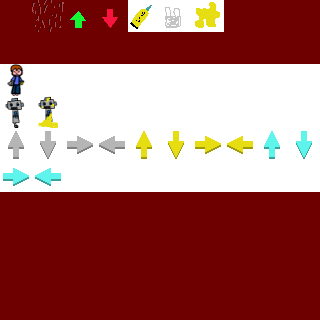
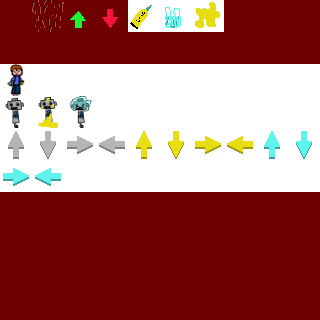
Bag robots!

Changed region(s): [[0.2188, 0.2812, 0.2812, 0.4062], [0.5, 0.0312, 0.5625, 0.0938]]

diff --git a/main.js b/main.js
@@ -17,16 +17,22 @@ gameState.preload = function() {
 };
 
 gameState.create = function() {
-  this.level = Level.parse(Level.LEVEL2);
-  this.boy = Boy.create(this.level.getStartX(), this.level.getStartY());
-  this.level.addEntity(this.boy);
+  this.arrows = game.input.keyboard.createCursorKeys();
+  this.levelIndex = 0;
+  this.startLevel();
   this.glueCount = 0;
   this.bagCount = 0;
-  this.renderer = new Renderer(this.level, this.boy, game);
   this.renderer.renderBoard();
+};
 
-  this.arrows = game.input.keyboard.createCursorKeys();
+gameState.startLevel = function() {
+  this.clean();
+  this.level = Level.parse(Level.LEVELS[this.levelIndex]);
+  this.boy = Boy.create(this.level.getStartX(), this.level.getStartY());
+  this.level.addEntity(this.boy);
+  this.renderer = new Renderer(this.level, this.boy, game);
   this.mode = Mode.MOVE;
+  this.renderer.renderBoard();
 };
 
 gameState.update = function() {
@@ -75,7 +81,12 @@ gameState.stepGame = function(dx, dy) {
   case Mode.MOVE:
     this.boy.moveBy(dx, dy);
     if (this.level.getBoard(this.boy.getX(), this.boy.getY()) == Level.EXIT) {
-      this.gotoWin();
+      if (this.levelIndex == Level.LEVELS.length - 1) {
+        this.gotoWin();
+      } else {
+        this.levelIndex += 1;
+        this.startLevel();
+      }
     }
     contents = this.level.getContent(this.boy.getX(), this.boy.getY());
     for (var i = contents.length - 1; i >= 0; --i) {
@@ -116,7 +127,7 @@ gameState.stepGame = function(dx, dy) {
     contents = this.level.getContent(this.boy.getX() + dx, this.boy.getY() + dy);
     for (var i = 0; i < contents.length; ++i) {
       if (contents[i] instanceof Robot) {
-        // contents[i].bagRobot();
+        contents[i].setBagged(true, dx, dy);
         this.bagCount -= 1;
         this.mode = Mode.MOVE;
         break;
@@ -147,6 +158,9 @@ gameState.stepGame = function(dx, dy) {
     r.moveBy(move.getDx(), move.getDy());
     if ((r.getX() == this.boy.getX()) && (r.getY() == this.boy.getY())) {
       this.gotoLose();
+    } else if (this.level.hasGlue(r.getX(), r.getY())) {
+      r.setGlued();
+      this.level.removeGlue(r.getX(), r.getY());
     }
   }
 };
@@ -155,26 +169,39 @@ gameState.stepRobot = function(r) {
   if (r.isGlued()) {
     return;
   }
+  
   var dx = Math.sign(this.boy.getX() - r.getX());
   var dy = Math.sign(this.boy.getY() - r.getY());
-  // If not on same line or column, nothing
-  if (dx != 0 && dy != 0) {
-    return;
-  }
-  var d = Math.max(Math.abs(this.boy.getX() - r.getX()),
-                   Math.abs(this.boy.getY() - r.getY()));
-  // If wall, no visibility
-  for (var i = 1; i < d; ++i) {
-    if (this.level.getBoard(r.getX() + dx * i, r.getY() + dy * i) == Level.WALL) {
+  if (r.isBagged()) {
+    dx = r.getDx();
+    dy = r.getDy();
+  } else {
+    // If not on same line or column, nothing
+    if (dx != 0 && dy != 0) {
       return;
     }
+    var d = Math.max(Math.abs(this.boy.getX() - r.getX()),
+                     Math.abs(this.boy.getY() - r.getY()));
+    // If wall, no visibility
+    for (var i = 1; i < d; ++i) {
+      if (this.level.getBoard(r.getX() + dx * i, r.getY() + dy * i) == Level.WALL) {
+        return;
+      }
+    }
+  }
+
+  if (r.isBagged() && this.level.getBoard(r.getX() + dx, r.getY() + dy) == Level.WALL) {
+    r.setBagged(false);
+    return;
   }
   // Ok, robot moves
   return new RobotMove(r, dx, dy);
 };
 
 gameState.clean = function() {
-  this.renderer.clean();
+  if (this.renderer) {
+    this.renderer.clean();
+  }
 };
 
 gameState.gotoWin = function() {
@@ -193,19 +220,27 @@ gameState.shutdown = function() {
 var winState = {};
 winState.preload = function() {
   game.load.image("win", "win.png");
+  game.load.image("restart", "restart.png");
 };
 
 winState.create = function() {
   game.add.image(0, 0, "win");
+  game.add.button(450, 430, "restart", function() {
+    game.state.start("game");
+  });
 };
 
 var loseState = {};
 loseState.preload = function() {
   game.load.image("lose", "lose.png");
+  game.load.image("restart", "restart.png");
 };
 
 loseState.create = function() {
   game.add.image(0, 0, "lose");
+  game.add.button(450, 430, "restart", function() {
+    game.state.start("game");
+  });
 };
 
 

diff --git a/render.js b/render.js
@@ -13,6 +13,7 @@ var BOY_SPRITE = 20;
 
 var ROBOT_SPRITE = 30;
 var GLUED_ROBOT_SPRITE = 31;
+var BAGGED_ROBOT_SPRITE = 32;
 
 var MOVE_UP_SPRITE = 40;
 var MOVE_DOWN_SPRITE = 41;
@@ -102,7 +103,8 @@ Renderer.prototype.renderContents = function() {
           this.game.add.sprite(this.boardOffsetX + 32 * i, this.boardOffsetY + 32 * j, "tiles",
                                BOY_SPRITE, this.objects);
         } else if (obj instanceof Robot) {
-          var sprite = obj.isGlued() ? GLUED_ROBOT_SPRITE : ROBOT_SPRITE;
+          var sprite = obj.isGlued() ? GLUED_ROBOT_SPRITE :
+            obj.isBagged() ? BAGGED_ROBOT_SPRITE : ROBOT_SPRITE;
           this.game.add.sprite(this.boardOffsetX + 32 * i, this.boardOffsetY + 32 * j, "tiles",
                                sprite, this.objects);
         }
@@ -121,10 +123,16 @@ Renderer.prototype.renderArrows = function(level, x, y, mode) {
       mode == Mode.MOVE;
   };
   this.arrows = this.game.add.group(undefined, "arrows", true);
+  var s;
   if (y > 0 && level.getBoard(x, y - 1) != Level.WALL &&
       okWithMode(mode, x, y - 1)) {
-    this.game.add.sprite(this.boardOffsetX + 32 * x, this.boardOffsetY + 32 * (y - 1), "tiles",
-                         ARROW_UP_SPRITE[mode], this.arrows);
+    s = ARROW_UP_SPRITE[mode];
+    this.game.add.button(this.boardOffsetX + 32 * x, this.boardOffsetY + 32 * (y - 1), "tiles",
+                         function() {
+                           console.log("UP");
+                           gameState.tryStepGame(0, -1);
+                         }, this,
+                         s, s, s, s, this.arrows);
   }
   if (y < level.getHeight() - 1 && level.getBoard(x, y + 1) != Level.WALL &&
       okWithMode(mode, x, y + 1)) {

diff --git a/model.js b/model.js
@@ -186,6 +186,9 @@ Robot.create = function(x, y) {
 Robot.prototype._init_ = function(x, y) {
   Entity.prototype._init_.call(this, x, y);
   this.glued = false;
+  this.bagged = false;
+  this.dx = 0;
+  this.dy = 0;
   return this;
 };
 
@@ -195,6 +198,26 @@ Robot.prototype.setGlued = function() {
 
 Robot.prototype.isGlued = function() {
   return this.glued;
+};
+
+Robot.prototype.setBagged = function(bagged, dx, dy) {
+  this.bagged = bagged;
+  if (this.bagged) {
+    this.dx = dx;
+    this.dy = dy;
+  }
+};
+
+Robot.prototype.isBagged = function() {
+  return this.bagged;
+};
+
+Robot.prototype.getDx = function() {
+  return this.dx;
+};
+
+Robot.prototype.getDy = function() {
+  return this.dy;
 };
 
 // Robot move
@@ -278,6 +301,17 @@ Level.prototype.hasGlue = function(x, y) {
     }
   }
   return false;
+};
+
+Level.prototype.removeGlue = function(x, y) {
+  var content = this.getContent(x, y);
+  for (var i = 0; i < content.length; ++i) {
+    if (content[i] instanceof Item) {
+      if (content[i].getType() == Item.GLUE_STAIN) {
+        content.splice(i, 1);
+      }
+    }
+  }
 };
 
 Level.prototype.getRobot = function(x, y) {
@@ -418,3 +452,8 @@ Level.LEVEL2 = [
   "# #       ### #   ##",
   "######### #   ### ##",
   "####################"];
+
+Level.LEVELS = [
+  Level.LEVEL1,
+  Level.LEVEL2
+];
